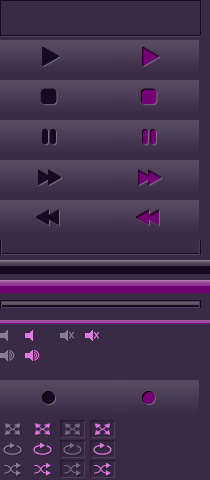
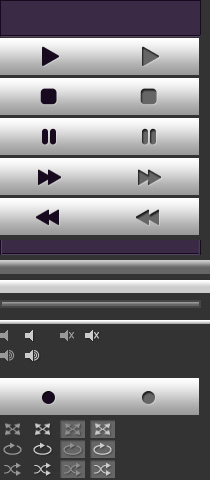
修改音樂播放器
修改的檔案    main_aside.css 。
修改版型。
修改顏色。

修改 排行榜 微調

修改 js檔   leaderboards.js, leaderboards-1.js, leaderboards-like.js 。

diff --git a/MusicStarProject/src/main/webapp/assets/css/main_aside.css b/MusicStarProject/src/main/webapp/assets/css/main_aside.css
@@ -11,11 +11,13 @@
 .jp-video button::-moz-focus-inner {
   /* Disable the browser CSS3 focus highlighting. */
   border: 0; }
-
+  
+/* 改清單顏色大小 */
 .jp-audio,
 .jp-audio-stream,
 .jp-video {
-  font-size: 16px;
+  font-size: 32px;
+  font-weight:bold;
   font-family: Verdana, Arial, sans-serif;
   line-height: 1.6;
   color: #fff;
@@ -23,7 +25,7 @@
   border-left: 1px solid #554461;
   border-right: 1px solid #180a1f;
   border-bottom: 1px solid #180a1f;
-  background-color: rgba(0, 0, 0, 0.5); }
+  background-color: rgba(229, 0, 255, 0.5); }
 
 .jp-audio {
   width: 201px;
@@ -76,11 +78,12 @@
   /* Rules for IE6 (full-screen) */
   bottom: 0;
   left: 0; }
-
+  
+/* 控制條顏色背景 */
 .jp-interface {
   position: relative;
   width: 100%;
-  background-color: rgba(0, 0, 0, 0.5); 
+  background-color: rgba(0, 0, 0, 0); 
   /* Required for the full screen */ }
 
 /* @group CONTROLS */
@@ -459,7 +462,9 @@ div.jp-type-playlist div.jp-playlist a {
   text-decoration: none; }
 
 div.jp-type-playlist div.jp-playlist a:hover {
-  color: #e892e9; }
+/*   color: #e892e9;  */
+  color:blue;
+  }
 
 div.jp-type-playlist div.jp-playlist li.jp-playlist-current {
   background-color: rgba(0,0,0,0.5);
@@ -494,9 +499,12 @@ div.jp-type-playlist div.jp-playlist span.jp-free-media a {
 div.jp-type-playlist div.jp-playlist span.jp-free-media a:hover {
   color: #E892E9; }
 
+/* 歌單作者 顏色大小*/
 span.jp-artist {
-  font-size: .8em;
-  color: #8C7A99; }
+  font-size: .12em;
+  color: #ffff00; 
+  font-weight:bold;
+  }
 
 /* @end */
 .jp-video .jp-video-play {

diff --git a/MusicStarProject/src/main/webapp/assets/js/leaderboards-like.js b/MusicStarProject/src/main/webapp/assets/js/leaderboards-like.js
@@ -7,7 +7,7 @@ $(document).ready(function(){
 			var cc1= $('<th class="text-danger"></th>').html(mu[5]).counterUp({delay:10,time:1000,});
 			var cc2= $('<td></td>').html(mu[3])
 			var cc3= $('<td></td>').html('<img src='+mu[0]+'>')
-			var cc4= $('<td></td>').html('<a data-music-link='+mu[1]+' class="play_music"><i class="fa fa-play-circle" style="font-size:36px;color:green"></i></a>')
+			var cc4= $('<td></td>').html('<a href="#" data-music-link='+mu[1]+' class="play_music"><i class="fa fa-play-circle" style="font-size:36px;color:green"></i></a>')
 			var cc5= $('<td></td>').html(mu[2])			
 			var cc6= $('<td></td>').html('<a href="#" class="like"><i class="fa fa-heart" style="font-size:36px;color:red"></i></a>')			
 			var cc7= $('<td style="visibility:hidden"></td>').html(mu[4])			

diff --git a/MusicStarProject/src/main/webapp/assets/js/leaderboards-1.js b/MusicStarProject/src/main/webapp/assets/js/leaderboards-1.js
@@ -7,7 +7,7 @@ $(document).ready(function(){
 		var docFrag =$(document.createDocumentFragment());
 		$.each(data,function(index,mu){
 			var cc1=$('<td></td>').html('<img src='+mu[1].music_photo+'>')
-			var cc2=$('<td></td>').html('<a data-music-link='+mu[1].music_link+' class="play_music"><i class="fa fa-play-circle" style="font-size:36px;color:green"></i></a>')
+			var cc2=$('<td></td>').html('<a href="#" data-music-link='+mu[1].music_link+' class="play_music"><i class="fa fa-play-circle" style="font-size:36px;color:green"></i></a>')
 			var cc3=$('<td></td>').html(mu[1].music_name)
 			var cc4=$('<td></td>').html(mu[0].music_contest_player_id)
 			var cc5=$('<td></td>').html(mu[1].music_description)

diff --git a/MusicStarProject/src/main/webapp/assets/js/leaderboards.js b/MusicStarProject/src/main/webapp/assets/js/leaderboards.js
@@ -8,7 +8,7 @@ $(document).ready(function(){
 	 	    	console.log(data);
 				$.each(data,function(index,mu){				
 					var cc1=$('<div></div>').html('<img src='+mu[1].music_photo+'>')
-					var cc2=$('<div></div>').html('<a data-music-link='+mu[1].music_link+' class="play_music"><i class="fa fa-play-circle" style="font-size:36px;color:green"></i></a>')
+					var cc2=$('<div></div>').html('<a href="#" data-music-link='+mu[1].music_link+' class="play_music"><i class="fa fa-play-circle" style="font-size:36px;color:green"></i></a>')
 					var cc3=$('<h4></h4>').html(mu[1].music_name)
 					var cc4=$('<h5></h5>').html(mu[0].music_contest_player_id)
 		    		var rr=$('<li></li>').append([cc1,cc2,cc3,cc4])
